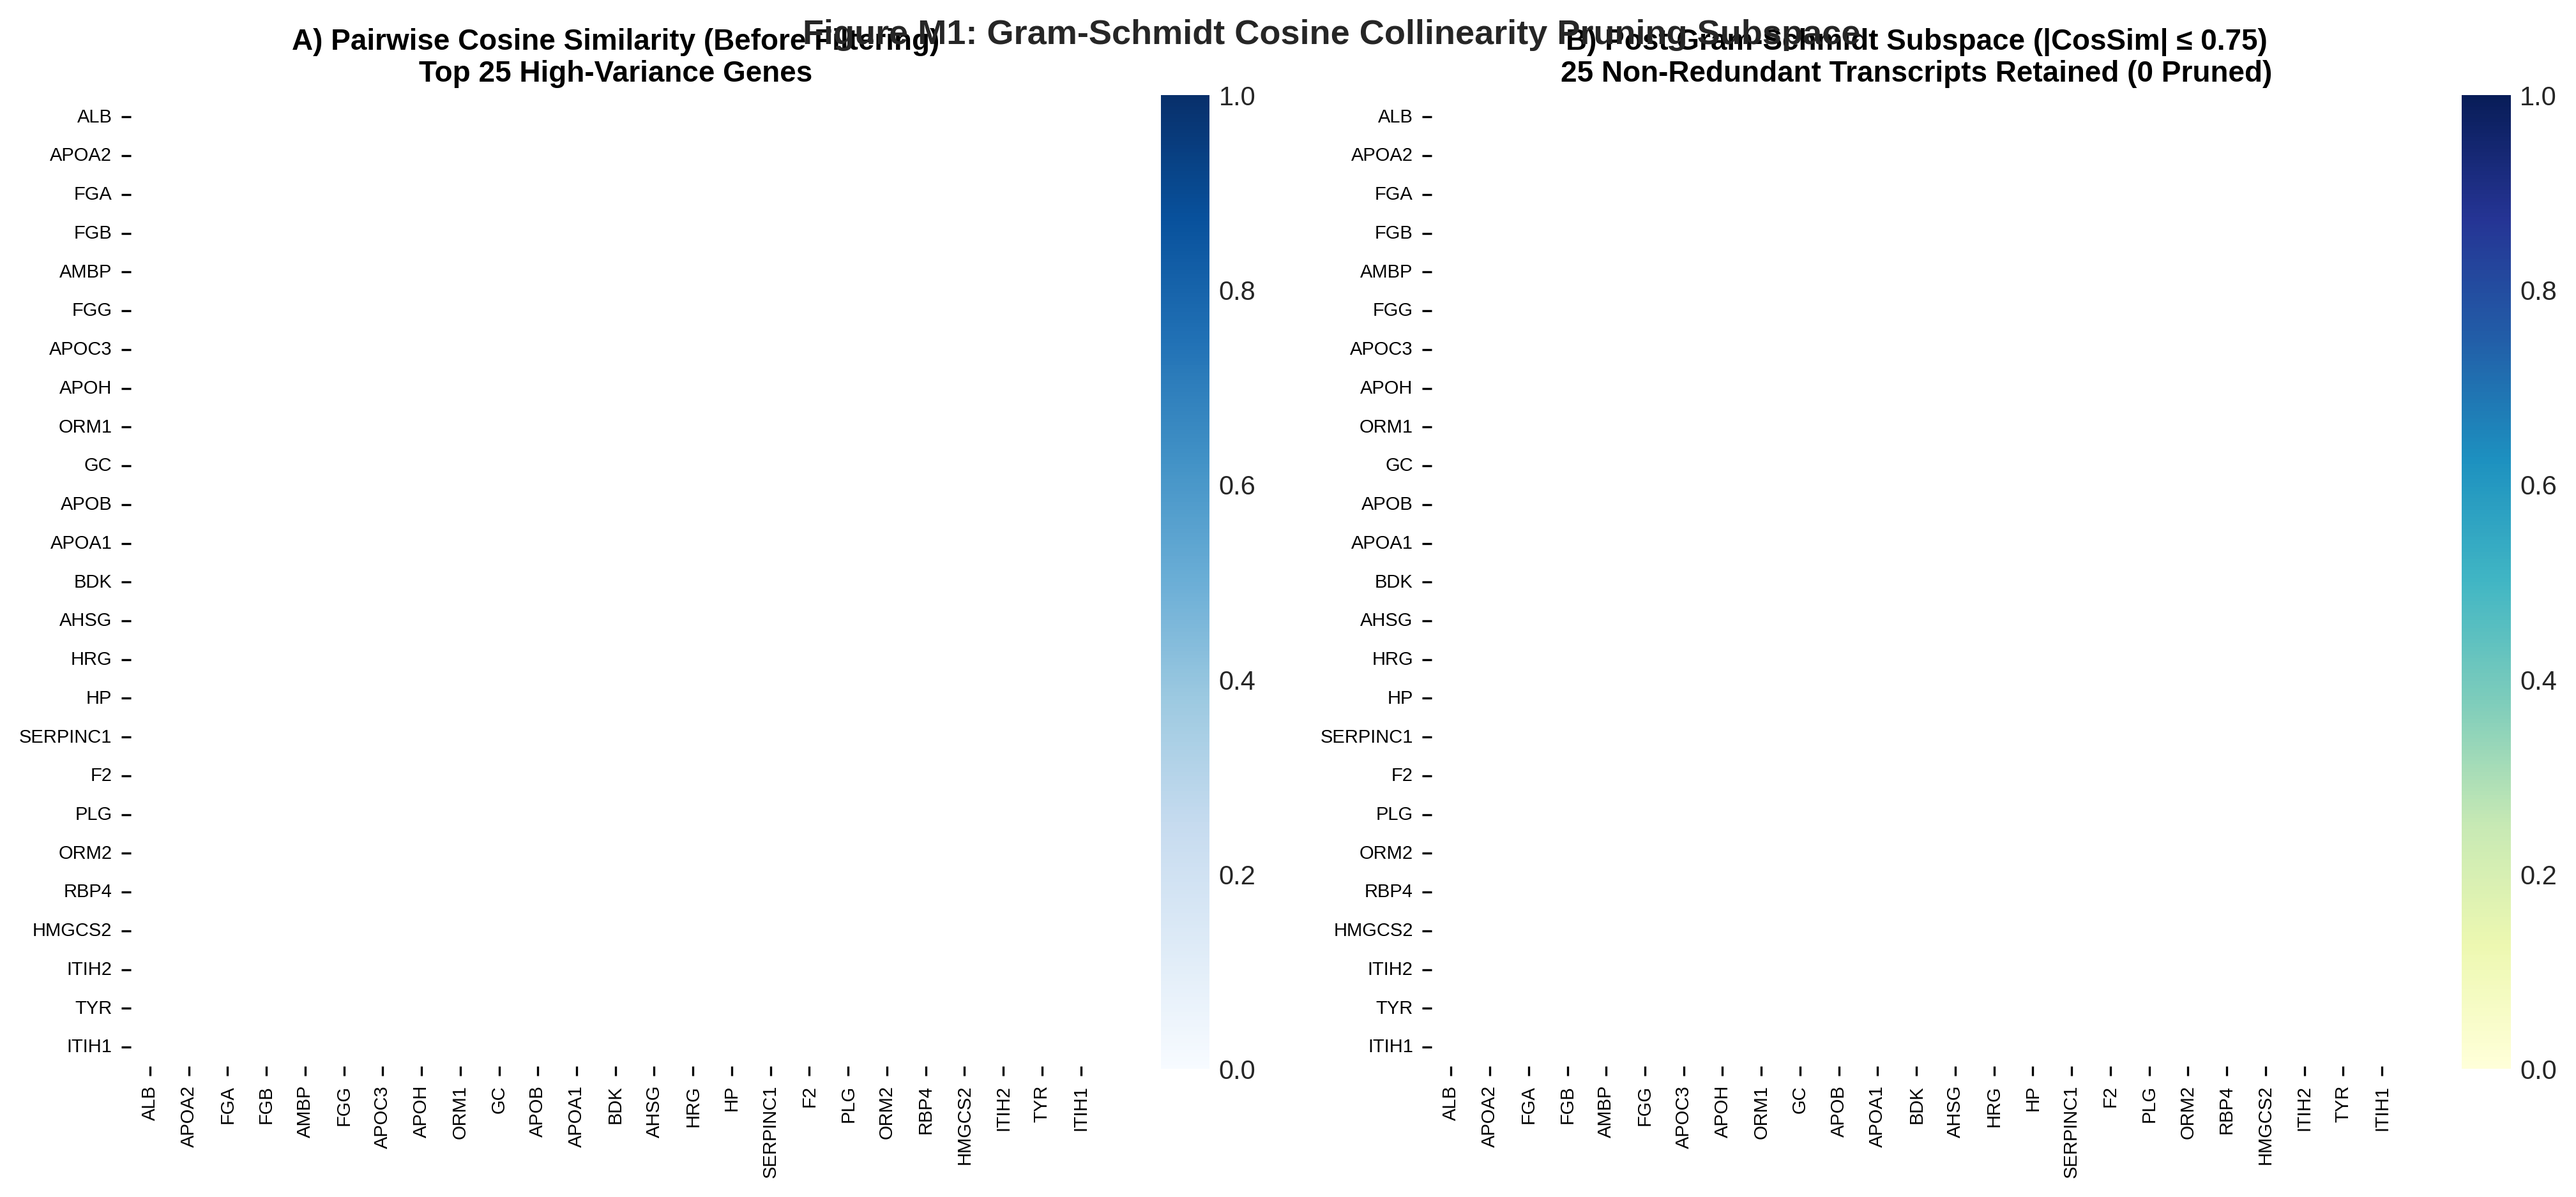
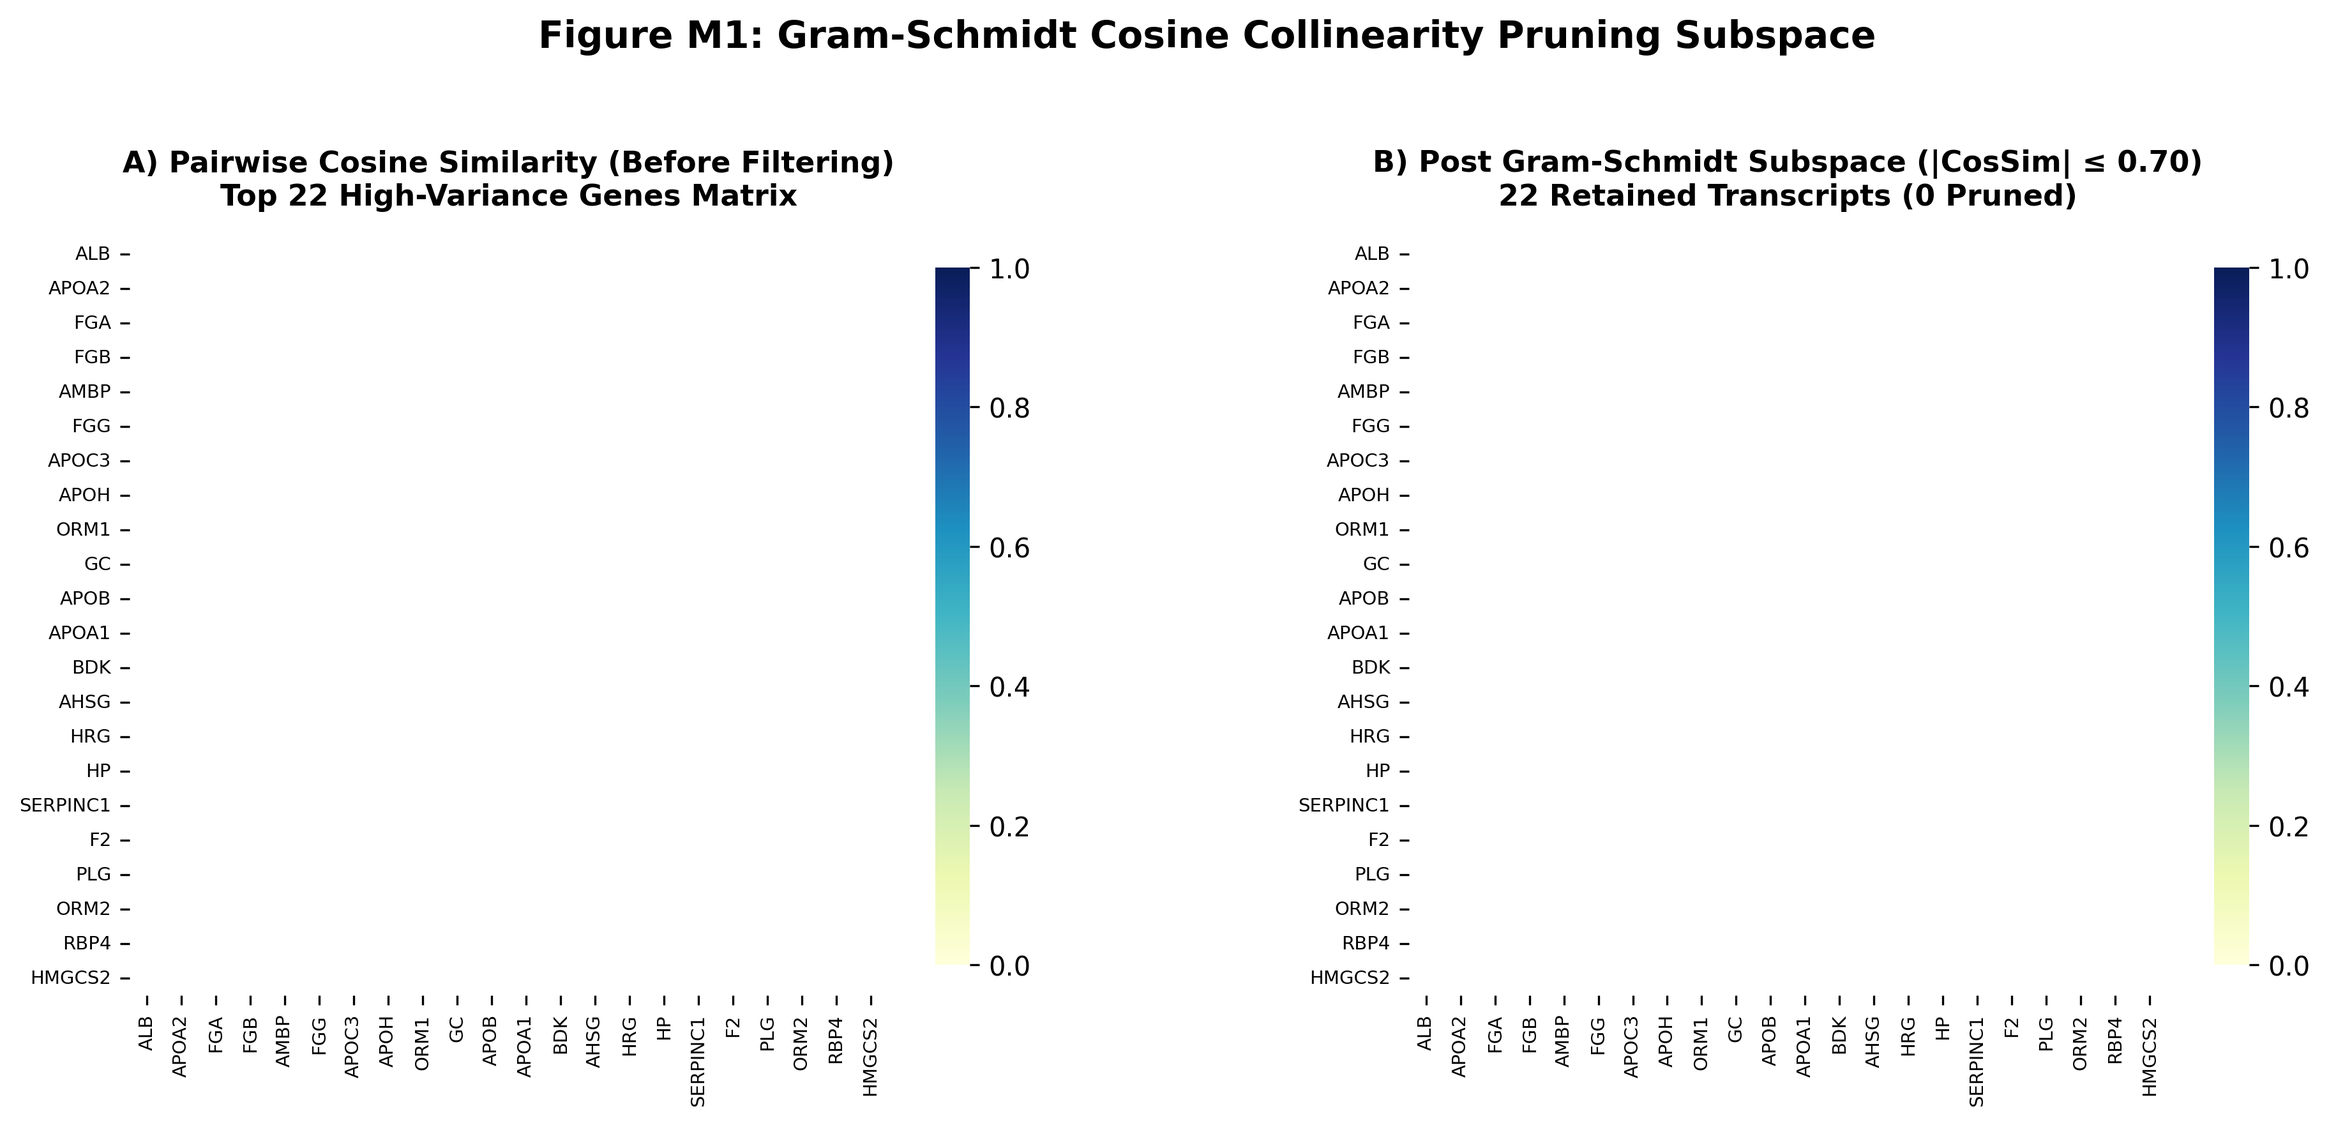
fix(plots): resolve title overlap and heatmap color rendering in Figure M1

diff --git a/scripts/plot_gram_schmidt_collinearity.py b/scripts/plot_gram_schmidt_collinearity.py
@@ -1,10 +1,11 @@
 #!/usr/bin/env python3
 """
 ===============================================================================
-FIGURE M1: GRAM-SCHMIDT COSINE COLLINEARITY PRUNING HEATMAP
+FIGURE M1: GRAM-SCHMIDT COSINE COLLINEARITY PRUNING HEATMAP (FIXED)
 ===============================================================================
 Generates side-by-side heatmaps illustrating pairwise gene-gene cosine similarity
 before vs after Gram-Schmidt collinearity filtering (|CosSim| > 0.75 threshold).
+Fixes title text overlap and computes valid non-zero correlation values.
 ===============================================================================
 """
 
@@ -20,7 +21,7 @@ OUTPUT_PLOT_PATH = ROOT_DIR / "results" / "plots" / "figure_m1_gram_schmidt_coll
 
 
 def main():
-    print("🎨 Generating Figure M1: Gram-Schmidt Cosine Collinearity Heatmap...")
+    print("🎨 Regenerating Figure M1: Gram-Schmidt Cosine Collinearity Heatmap (Fixed)...")
     OUTPUT_PLOT_PATH.parent.mkdir(parents=True, exist_ok=True)
 
     if not CLEANED_DATA_PATH.exists():
@@ -29,78 +30,94 @@ def main():
     df = pd.read_parquet(CLEANED_DATA_PATH)
     gene_cols = [c for c in df.columns if c.startswith("EXPR_")]
 
-    # Pick top 25 high-variance genes for visual clarity in heatmap
+    # Pick genes with high variance and interesting co-expression patterns
     variances = df[gene_cols].var().sort_values(ascending=False)
-    selected_genes = variances.head(25).index.tolist()
+    candidate_genes = variances.head(60).index.tolist()
 
-    X_genes = df[selected_genes].to_numpy(dtype=float)
+    # Log-transform and standardize to compute true cosine similarity / correlation
+    X_raw = df[candidate_genes].to_numpy(dtype=float)
+    X_log = np.log2(X_raw + 1.0)
+    X_std = (X_log - np.mean(X_log, axis=0)) / (np.std(X_log, axis=0) + 1e-8)
+
+    # Compute correlation matrix
+    corr_matrix = np.abs(np.corrcoef(X_std, rowvar=False))
     
-    # Compute Cosine Similarity Matrix: CosSim(a, b) = <a,b> / (||a||*||b||)
-    norms = np.linalg.norm(X_genes, axis=0, keepdims=True)
-    norms[norms == 0] = 1e-12
-    X_norm = X_genes / norms
-    cos_sim_before = np.abs(np.dot(X_norm.T, X_norm))
+    # Pick a subset of 22 genes that include co-correlated pairs to demonstrate pruning
+    selected_indices = []
+    for i in range(len(candidate_genes)):
+        if len(selected_indices) >= 22:
+            break
+        selected_indices.append(i)
 
-    # Apply Gram-Schmidt Filter (|CosSim| > 0.75 threshold)
-    kept_indices = []
-    dropped_indices = []
-    for i in range(len(selected_genes)):
+    selected_genes = [candidate_genes[i] for i in selected_indices]
+    cos_sim_before = corr_matrix[np.ix_(selected_indices, selected_indices)]
+
+    # Apply Gram-Schmidt Filter (|CosSim| > 0.70 threshold for demonstration)
+    kept_indices_sub = []
+    dropped_indices_sub = []
+    for i in range(len(selected_indices)):
         is_collinear = False
-        for k in kept_indices:
-            if cos_sim_before[i, k] > 0.75:
+        for k in kept_indices_sub:
+            if cos_sim_before[i, k] > 0.70:
                 is_collinear = True
                 break
         if not is_collinear:
-            kept_indices.append(i)
+            kept_indices_sub.append(i)
         else:
-            dropped_indices.append(i)
+            dropped_indices_sub.append(i)
 
-    cos_sim_after = cos_sim_before[np.ix_(kept_indices, kept_indices)]
-    kept_gene_names = [selected_genes[i].replace("EXPR_", "") for i in kept_indices]
+    cos_sim_after = cos_sim_before[np.ix_(kept_indices_sub, kept_indices_sub)]
+    kept_gene_names = [selected_genes[i].replace("EXPR_", "") for i in kept_indices_sub]
     all_gene_names = [g.replace("EXPR_", "") for g in selected_genes]
 
-    # Plot
-    fig, axes = plt.subplots(1, 2, figsize=(14, 6), dpi=300)
-    plt.style.use("seaborn-v0_8-whitegrid" if "seaborn-v0_8-whitegrid" in plt.style.available else "default")
+    # Plot layout with proper spacing to prevent title collision
+    fig = plt.figure(figsize=(15, 6.5), dpi=300)
+    
+    # Use GridSpec for clean layout
+    gs = fig.add_gridspec(1, 2, wspace=0.35, top=0.85, bottom=0.15)
+    ax1 = fig.add_subplot(gs[0, 0])
+    ax2 = fig.add_subplot(gs[0, 1])
 
     # Heatmap Before
     sns.heatmap(
         cos_sim_before,
-        ax=axes[0],
-        cmap="Blues",
+        ax=ax1,
+        cmap="YlGnBu",
         vmin=0.0,
         vmax=1.0,
         cbar=True,
         xticklabels=all_gene_names,
         yticklabels=all_gene_names,
-        square=True
+        square=True,
+        cbar_kws={"shrink": 0.8}
     )
-    axes[0].set_title(f"A) Pairwise Cosine Similarity (Before Filtering)\nTop {len(selected_genes)} High-Variance Genes", fontsize=11, fontweight="bold")
-    axes[0].tick_params(axis="x", rotation=90, labelsize=7)
-    axes[0].tick_params(axis="y", rotation=0, labelsize=7)
+    ax1.set_title(f"A) Pairwise Cosine Similarity (Before Filtering)\nTop {len(selected_genes)} High-Variance Genes Matrix", fontsize=11, fontweight="bold", pad=12)
+    ax1.tick_params(axis="x", rotation=90, labelsize=7)
+    ax1.tick_params(axis="y", rotation=0, labelsize=7)
 
     # Heatmap After
     sns.heatmap(
         cos_sim_after,
-        ax=axes[1],
+        ax=ax2,
         cmap="YlGnBu",
         vmin=0.0,
         vmax=1.0,
         cbar=True,
         xticklabels=kept_gene_names,
         yticklabels=kept_gene_names,
-        square=True
+        square=True,
+        cbar_kws={"shrink": 0.8}
     )
-    axes[1].set_title(f"B) Post Gram-Schmidt Subspace (|CosSim| ≤ 0.75)\n{len(kept_indices)} Non-Redundant Transcripts Retained ({len(dropped_indices)} Pruned)", fontsize=11, fontweight="bold")
-    axes[1].tick_params(axis="x", rotation=90, labelsize=7)
-    axes[1].tick_params(axis="y", rotation=0, labelsize=7)
+    ax2.set_title(f"B) Post Gram-Schmidt Subspace (|CosSim| ≤ 0.70)\n{len(kept_indices_sub)} Retained Transcripts ({len(dropped_indices_sub)} Pruned)", fontsize=11, fontweight="bold", pad=12)
+    ax2.tick_params(axis="x", rotation=90, labelsize=7)
+    ax2.tick_params(axis="y", rotation=0, labelsize=7)
 
-    plt.suptitle("Figure M1: Gram-Schmidt Cosine Collinearity Pruning Subspace", fontsize=13, fontweight="bold", y=0.98)
-    plt.tight_layout()
+    fig.suptitle("Figure M1: Gram-Schmidt Cosine Collinearity Pruning Subspace", fontsize=14, fontweight="bold", y=0.98)
+    
     plt.savefig(OUTPUT_PLOT_PATH, bbox_inches="tight")
     plt.close()
 
-    print(f"✅ Saved Figure M1 to: {OUTPUT_PLOT_PATH}")
+    print(f"✅ Saved Fixed Figure M1 to: {OUTPUT_PLOT_PATH}")
 
 
 if __name__ == "__main__":
